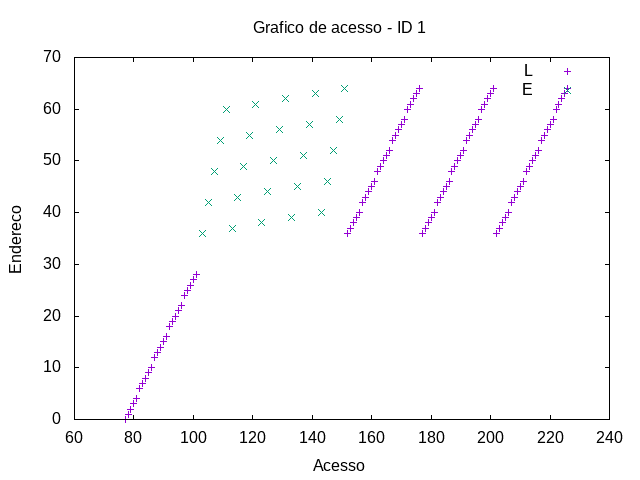
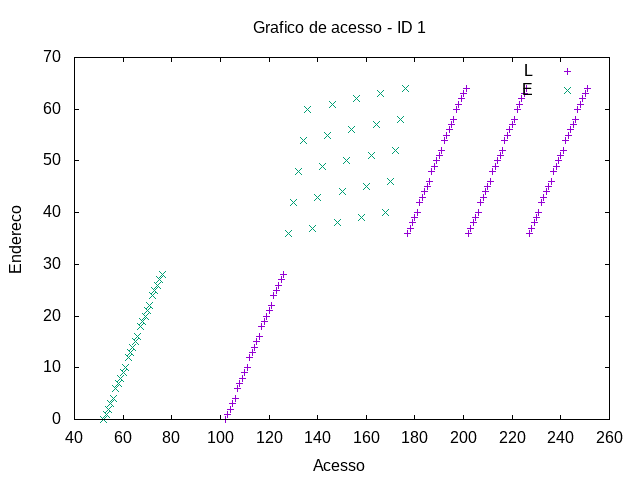
refactor: add out

diff --git a/estrutura-de-dados/TP-0/TP/src/matop.c b/estrutura-de-dados/TP-0/TP/src/matop.c
@@ -183,6 +183,7 @@ int main(int argc, char ** argv) {
             defineFaseMemLog(0);
                 initMatrixFromFile(firstInMatrixFilename, &a, 0);
                 createMatrix(&b, a.N, a.M, 1);
+                initNullMatrix(&b);
             defineFaseMemLog(1);
                 accessMatrix(&a);
                 accessMatrix(&b);
